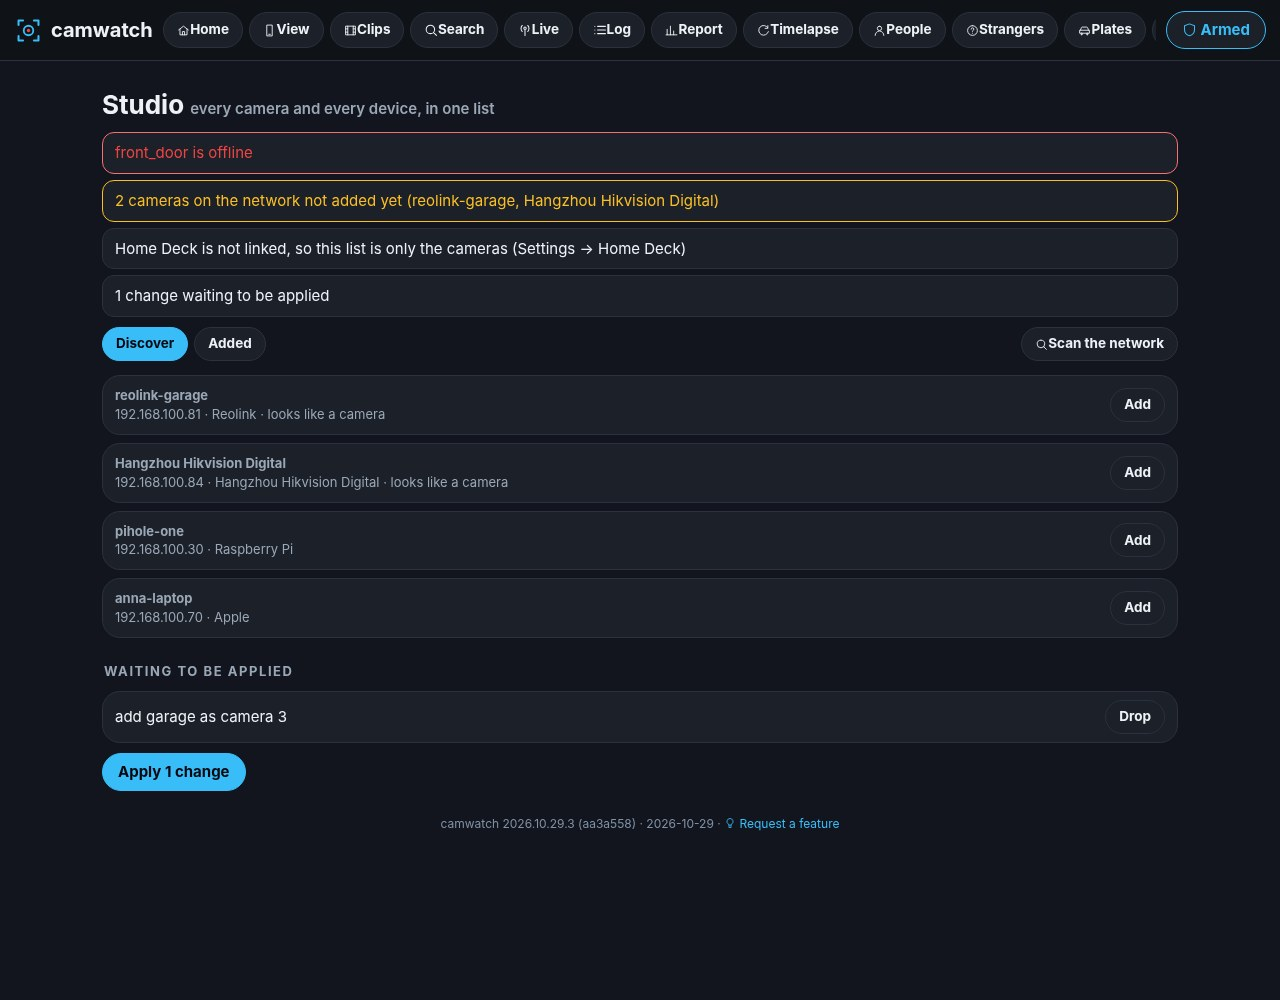
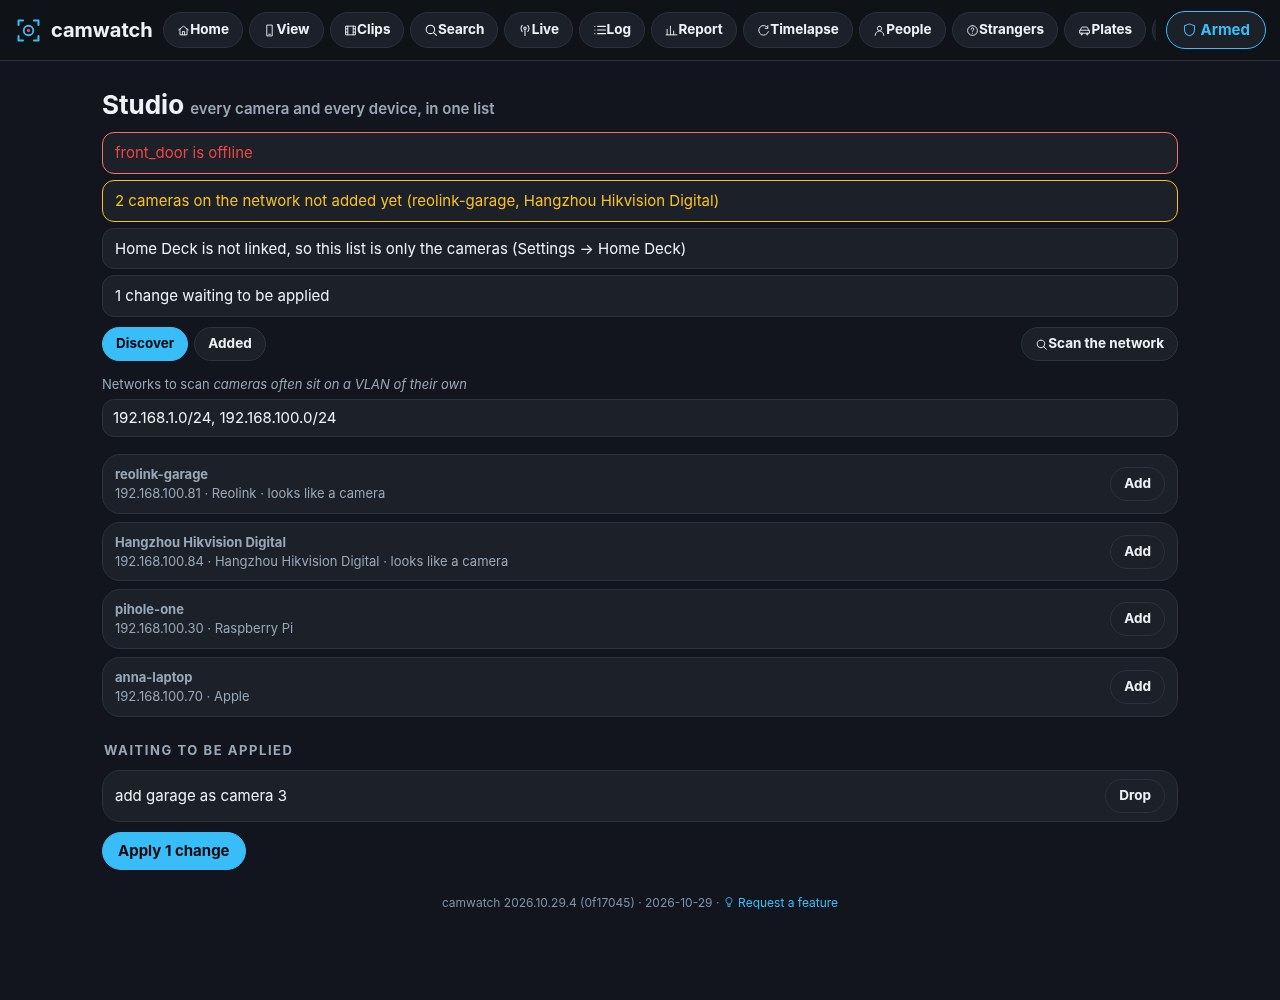
CamWatch: scan several VLANs for cameras in one go
The scan took one subnet, which is the wrong shape for the houses that most
need it: cameras are usually kept on a VLAN of their own, and a house with
one VLAN usually has more than one.

The Studio now takes a list. onvif.check_subnets() splits it on commas or
spaces, drops repeats, and keeps the existing per-network limit while adding
two more - at most 8 networks and 4096 addresses in one scan. A scan nobody
waits for is a scan nobody runs, and without a total limit eight /22s is
eight thousand addresses. Each result says which network it came from.

The list is suggested rather than typed from nothing. The addresses already
known say which VLANs exist and are reachable from here: the one CamWatch is
reached on, the ones the configured cameras are on, and the ones Home Deck's
devices are on. What you scan is remembered for next time.

13 checks added. Four were broken on purpose and watched go red: dropping
the total cap, dropping the network cap, not recording which network a
result came from, and not reading the VLANs out of Home Deck's devices. The
third one passed at first because removing the field made the test raise
rather than fail - a crash is not a red check - so it now reads the field
with .get().

Claude-Session: https://claude.ai/code/session_01M31pPATnQRbFAS7cg6hzZr

diff --git a/CamWatch/app/webui.py b/CamWatch/app/webui.py
@@ -1090,16 +1090,40 @@ def test_camera():
     return Response(out.stdout, mimetype="image/jpeg", headers={"Cache-Control": "no-store"})
 
 
+def _slash24(host):
+    try:
+        ip = ipaddress.ip_address(str(host).rsplit(":", 1)[0].strip("[]"))
+    except ValueError:
+        return None
+    if ip.version != 4 or not ip.is_private or ip.is_loopback:
+        return None
+    return str(ipaddress.ip_network(f"{ip}/24", strict=False))
+
+
 def scan_default():
     """The /24 of the address the browser used for camwatch: usually the LAN the cameras are on."""
-    host = request.host.rsplit(":", 1)[0].strip("[]")
-    try:
-        ip = ipaddress.ip_address(host)
-        if ip.version == 4 and ip.is_private and not ip.is_loopback:
-            return str(ipaddress.ip_network(f"{ip}/24", strict=False))
-    except ValueError:
-        pass
-    return "192.168.1.0/24"
+    return _slash24(request.host) or "192.168.1.0/24"
+
+
+def scan_networks():
+    """The networks worth scanning, best first.
+
+    Cameras are often on a VLAN of their own, and a house with one usually has more than one. The
+    addresses already known say which VLANs exist and are reachable from here: the one camwatch is
+    reached on, the ones the configured cameras are on, and the ones Home Deck's devices are on."""
+    out = []
+    for candidate in [scan_default()] \
+            + [_slash24(studio.host_of(c["rtsp_url"])) for c in settings.camera_slots()] \
+            + [_slash24(d.get("ip")) for d in homedeck.synced().get("devices", [])]:
+        if candidate and candidate not in out:
+            out.append(candidate)
+    saved = [n for n in (settings.load().get("scan_subnets") or []) if n]
+    return (saved + [n for n in out if n not in saved])[:onvif_max_nets()]
+
+
+def onvif_max_nets():
+    import onvif
+    return onvif.MAX_NETS
 
 
 @app.get("/studio")
@@ -1116,6 +1140,7 @@ def studio_state():
                     "changes": studio.masked(d, mask_url),
                     "described": [studio.describe(c) for c in d],
                     "free": studio.free_slots(), "max": settings.MAX_CAMERAS,
+                    "networks": scan_networks(),
                     "history": studio.history()[:5], "linked": bool(homedeck.key())})
 
 
@@ -1153,10 +1178,13 @@ def studio_undo():
 def scan_cameras():
     """Devices with an open RTSP port in a subnet, and whether they speak ONVIF."""
     import onvif
+    asked = request.form.get("subnet") or ", ".join(scan_networks())
     try:
-        found = onvif.scan(request.form.get("subnet") or scan_default())
+        nets = onvif.check_subnets(asked)
+        found = onvif.scan_many(nets)
     except ValueError as exc:
         return as_json({"error": str(exc)}), 400
+    settings.update(scan_subnets=[str(n) for n in nets])      # remembered for the next scan
     used = {}
     for c in settings.camera_slots():
         login = split_login(c["rtsp_url"])
@@ -1170,7 +1198,7 @@ def scan_cameras():
         if d["ip"] not in seen:
             found.append({"ip": d["ip"], "rtsp_port": None, "onvif_port": None, "maker": d["vendor"].split(",")[0],
                           "model": "", "name": d["name"], "homedeck": True, "used_by": used.get(d["ip"])})
-    return as_json({"found": found})
+    return as_json({"found": found, "subnets": [str(n) for n in nets]})
 
 
 @app.post("/settings/cameras/onvif")
@@ -2816,6 +2844,9 @@ yesterday becomes a timelapse and a highlights reel (4 s of every recording with
   <button class="pill" data-tab="added">Added</button>
   <button class="pill" id="scan" style="margin-left:auto"><i class="icon icon-search" aria-hidden="true"></i> Scan the network</button>
 </nav>
+<div class="nets"><label for="subnets">Networks to scan <i>cameras often sit on a VLAN of their own</i></label>
+  <input id="subnets" spellcheck="false" placeholder="192.168.1.0/24, 10.0.20.0/24">
+  <span class="muted" id="scan-msg"></span></div>
 <div id="list" class="muted">Loading...</div>
 <div id="draft"></div>
 <div id="hist"></div>
@@ -2833,6 +2864,9 @@ yesterday becomes a timelapse and a highlights reel (4 s of every recording with
 .addf input,.addf select{min-height:38px;border-radius:var(--r-sm);border:1px solid var(--line);background:var(--bg);color:var(--fg);padding:0 10px;font:inherit}
 .chg{display:flex;gap:10px;align-items:center;padding:8px 12px;border-bottom:1px solid var(--line)}
 .chg:last-child{border-bottom:0}
+.nets{display:grid;gap:5px;margin:0 0 12px}
+.nets label{font-size:13px;color:var(--muted)}
+.nets input{min-height:38px;border-radius:var(--r-sm);border:1px solid var(--line);background:var(--card);color:var(--fg);padding:0 10px;font:inherit}
 </style>
 <script>
 const esc = s => String(s == null ? '' : s).replace(/[&<>"']/g, c => ({'&':'&amp;','<':'&lt;','>':'&gt;','"':'&quot;',"'":'&#39;'}[c]));
@@ -2841,6 +2875,8 @@ const $ = q => document.querySelector(q);
 
 async function load() {
   S = await (await fetch('/api/studio')).json();
+  const box = $('#subnets');
+  if (box && !box.value) box.value = (S.networks || []).join(', ');
   render();
 }
 
@@ -2946,18 +2982,23 @@ document.addEventListener('click', async e => {
 });
 
 $('#scan').onclick = async () => {
+  const label = $('#scan').innerHTML;
   $('#scan').textContent = 'Scanning...';
+  $('#scan-msg').textContent = '';
   try {
-    const r = await fetch('/settings/cameras/scan', {method: 'POST', headers: {'Content-Type': 'application/x-www-form-urlencoded'}, body: ''});
+    const r = await fetch('/settings/cameras/scan', {method: 'POST', headers: {'Content-Type': 'application/x-www-form-urlencoded'},
+                          body: 'subnet=' + encodeURIComponent($('#subnets').value)});
     const d = await r.json();
+    if (d.error) { $('#scan-msg').textContent = d.error; return; }
     found = d.found || [];
+    $('#scan-msg').textContent = `${found.length} found on ${(d.subnets || []).join(', ')}`;
     // A scan finds addresses the Home Deck list does not have; show them in the same list.
     const have = new Set(S.items.map(i => i.ip));
     found.filter(f => !have.has(f.ip)).forEach(f => S.items.push({
       kind: 'device', key: 'ip' + f.ip, name: f.name || f.maker || f.ip, ip: f.ip, slot: null,
       enabled: false, added: false, online: null, maker: f.maker || '', mac: '', camera_like: true}));
     render();
-  } finally { $('#scan').innerHTML = '<i class="icon icon-search" aria-hidden="true"></i> Scan the network'; }
+  } finally { $('#scan').innerHTML = label; }
 };
 
 load();

diff --git a/CamWatch/tests/test_studio.py b/CamWatch/tests/test_studio.py
@@ -21,6 +21,7 @@ os.environ.update(RECORDINGS_DIR=str(root / "recordings"), PHOTOS_DIR=str(root /
                   RTSP_URL="rtsp://admin:pw@192.168.1.50:554/stream1", DB_SOCKET=str(root / "nosock"))
 sys.path.insert(0, str(REPO / "app"))
 import homedeck  # noqa: E402
+import onvif  # noqa: E402
 import settings  # noqa: E402
 import studio  # noqa: E402
 import webui  # noqa: E402
@@ -147,6 +148,58 @@ report(isinstance(state.get("items"), list) and "free" in state, "/api/studio re
 bad = client.post("/api/studio/draft", headers=login,
                   json={"kind": "add", "slot": 2, "name": "x", "rtsp_url": "http://x"})
 report(bad.status_code == 400 and "rtsp" in bad.get_json()["error"], "a refused change answers 400")
+
+# ---- scanning more than one VLAN ------------------------------------
+nets = onvif.check_subnets("192.168.1.0/24, 10.0.20.0/24 192.168.1.0/24")
+report([str(n) for n in nets] == ["192.168.1.0/24", "10.0.20.0/24"],
+       "networks split on commas and spaces, and a repeat is dropped")
+for bad, why in [("", "enter at least one network"),
+                 ("8.8.8.0/24", "only private"),
+                 ("10.0.0.0/8", "at most")]:
+    try:
+        onvif.check_subnets(bad)
+        report(False, f"{bad or 'an empty list'} is refused")
+    except ValueError as exc:
+        report(why in str(exc), f"{bad or 'an empty list'} is refused ({exc})")
+try:
+    onvif.check_subnets(" ".join(f"192.168.{n}.0/24" for n in range(onvif.MAX_NETS + 1)))
+    report(False, "too many networks is refused")
+except ValueError as exc:
+    report("at most" in str(exc), f"too many networks is refused ({exc})")
+try:
+    onvif.check_subnets(" ".join(f"10.0.{n * 4}.0/22" for n in range(5)))
+    report(False, "too many addresses in total is refused")
+except ValueError as exc:
+    report("in one scan" in str(exc), f"too many addresses in total is refused ({exc})")
+
+calls = []
+real_scan = onvif.scan
+def fake_scan(subnet, timeout=0.5):
+    calls.append(subnet)
+    ip = "10.0.20.9" if subnet == "10.0.20.0/24" else "192.168.1.9"
+    return [{"ip": ip, "rtsp_port": 554, "maker": "Axis", "model": ""}]
+
+
+onvif.scan = fake_scan
+rows = onvif.scan_many(nets)
+report(calls == ["192.168.1.0/24", "10.0.20.0/24"], "every network is scanned")
+report({r["ip"] for r in rows} == {"192.168.1.9", "10.0.20.9"}, "the results of both are merged")
+report({r.get("subnet") for r in rows} == {"192.168.1.0/24", "10.0.20.0/24"},
+       "each result says which network it came from")
+onvif.scan = real_scan
+
+# the networks worth scanning come from the addresses already known
+reset()
+homedeck.save_sync({"devices": [{"ip": "10.0.20.40", "name": "cam-shed", "vendor": "Reolink", "mac": "e"}],
+                    "people": []})
+settings.update(cameras=[{"slot": 2, "name": "yard", "rtsp_url": "rtsp://u:p@172.16.5.11:554/s",
+                          "detect_url": "", "enabled": True}])
+with webui.app.test_request_context("/", base_url="http://192.168.1.52"):
+    suggested = webui.scan_networks()
+report("192.168.1.0/24" in suggested, "the network camwatch is reached on is suggested")
+report("172.16.5.0/24" in suggested, "the VLAN a configured camera is on is suggested")
+report("10.0.20.0/24" in suggested, "the VLAN a Home Deck device is on is suggested")
+report(len(suggested) <= onvif.MAX_NETS, "no more networks are suggested than can be scanned")
 
 print("ok" if ok else "FAILED")
 sys.exit(0 if ok else 1)

diff --git a/CamWatch/app/onvif.py b/CamWatch/app/onvif.py
@@ -25,6 +25,8 @@ from xml.sax.saxutils import escape
 RTSP_PORTS = (554, 8554)
 ONVIF_PORTS = (80, 8000, 8080, 2020, 8899, 888)
 MAX_HOSTS = 1024
+MAX_NETS = 8                 # networks in one scan
+MAX_TOTAL = 4096             # addresses across all of them: a scan nobody waits for is a scan nobody runs
 DEVICE_NS = "http://www.onvif.org/ver10/device/wsdl"
 MEDIA_NS = "http://www.onvif.org/ver10/media/wsdl"
 SCHEMA_NS = "http://www.onvif.org/ver10/schema"
@@ -42,6 +44,41 @@ def check_subnet(text):
     if net.num_addresses > MAX_HOSTS:
         raise ValueError(f"at most {MAX_HOSTS} addresses (/22) at a time")
     return net
+
+
+def check_subnets(text):
+    """"192.168.1.0/24, 10.0.20.0/24" -> [ip_network]. Cameras often sit on their own VLAN, and a
+    house with one can have several: a camera VLAN, an IoT VLAN, the normal LAN."""
+    parts = [p for p in re.split(r"[\s,;]+", (text or "").strip()) if p]
+    if not parts:
+        raise ValueError("enter at least one network, for example 192.168.1.0/24")
+    if len(parts) > MAX_NETS:
+        raise ValueError(f"at most {MAX_NETS} networks at a time")
+    nets, seen = [], set()
+    for part in parts:
+        net = check_subnet(part)
+        if net in seen:
+            continue
+        seen.add(net)
+        nets.append(net)
+    total = sum(n.num_addresses for n in nets)
+    if total > MAX_TOTAL:
+        raise ValueError(f"at most {MAX_TOTAL} addresses in one scan (these are {total})")
+    return nets
+
+
+def scan_many(subnets, timeout=0.5):
+    """scan() over several networks, newest result wins for an address that answers on two of them."""
+    rows, seen = [], {}
+    for net in subnets:
+        for row in scan(str(net), timeout):
+            row = {**row, "subnet": str(net)}
+            if row["ip"] in seen:
+                seen[row["ip"]].update(row)
+            else:
+                seen[row["ip"]] = row
+                rows.append(row)
+    return rows
 
 
 def _open(ip, port, timeout):

diff --git a/CamWatch/README.md b/CamWatch/README.md
@@ -46,7 +46,7 @@ Self-hosted camera service for one RTSP camera: motion and object detection (YOL
 | ![Settings](docs/screenshots/settings.jpg)<br>**Settings**: shows the sections in pairs, side by side on a wide screen. | ![Request a feature](docs/screenshots/requests.jpg)<br>**Request a feature**: sends your idea to GitHub as an issue and shows whether it is done. |
 | ![Strangers](docs/screenshots/strangers.jpg)<br>**Strangers**: groups unknown faces that come back. You name each person once. | ![Cameras](docs/screenshots/settings-cameras.jpg)<br>**Settings, cameras**: holds up to 4 cameras. *Find* searches your network for cameras. |
 | ![Off-site](docs/screenshots/settings-offsite.jpg)<br>**Settings, off-site copies**: copies clips to iCloud, Google Drive or another place. Home Assistant settings follow below. | ![Updates](docs/screenshots/settings-updates.jpg)<br>**Settings, updates**: shows the running version. *Update now* installs a newer version from GitHub. |
-| ![Storage](docs/screenshots/settings-storage.jpg)<br>**Settings, storage**: sets how long clips stay, and moves the recordings to another disk or a network share. | ![Studio](docs/screenshots/studio.jpg)<br>**Studio**: every camera and every device on the network in one list. You collect the changes and apply them together, and the last apply can be undone. |
+| ![Storage](docs/screenshots/settings-storage.jpg)<br>**Settings, storage**: sets how long clips stay, and moves the recordings to another disk or a network share. | ![Studio](docs/screenshots/studio.jpg)<br>**Studio**: every camera and every device on the network in one list. *Scan* searches several VLANs at once. You collect the changes and apply them together, and the last apply can be undone. |
 
 | Phone: home | Phone: cameras | Phone: settings |
 |---|---|---|

diff --git a/CamWatch/CHANGELOG.md b/CamWatch/CHANGELOG.md
@@ -7,6 +7,9 @@ Newest changes first.
 - New: Studio. Every camera and every device Home Deck knows about, in one list, with the ones a network
   scan finds. Adding a camera is a slot, a name and a stream address collected as a draft and applied
   together, instead of four separate forms on the Settings page. The apply before this one can be undone.
+- New: the camera scan searches several networks at once, for houses that keep cameras on their own VLAN. The
+  networks are suggested from the addresses already known - the one you reach CamWatch on, the ones the cameras
+  are on, and the ones Home Deck's devices are on - and the list is remembered for the next scan.
 - New: CamWatch links with the Studio in Home Deck. Settings → Home Deck makes the link key.
 - The Studio lists CamWatch's cameras. A watched camera sends a notice when it goes offline.
 - The Studio's People page shows when a camera last saw each person.
